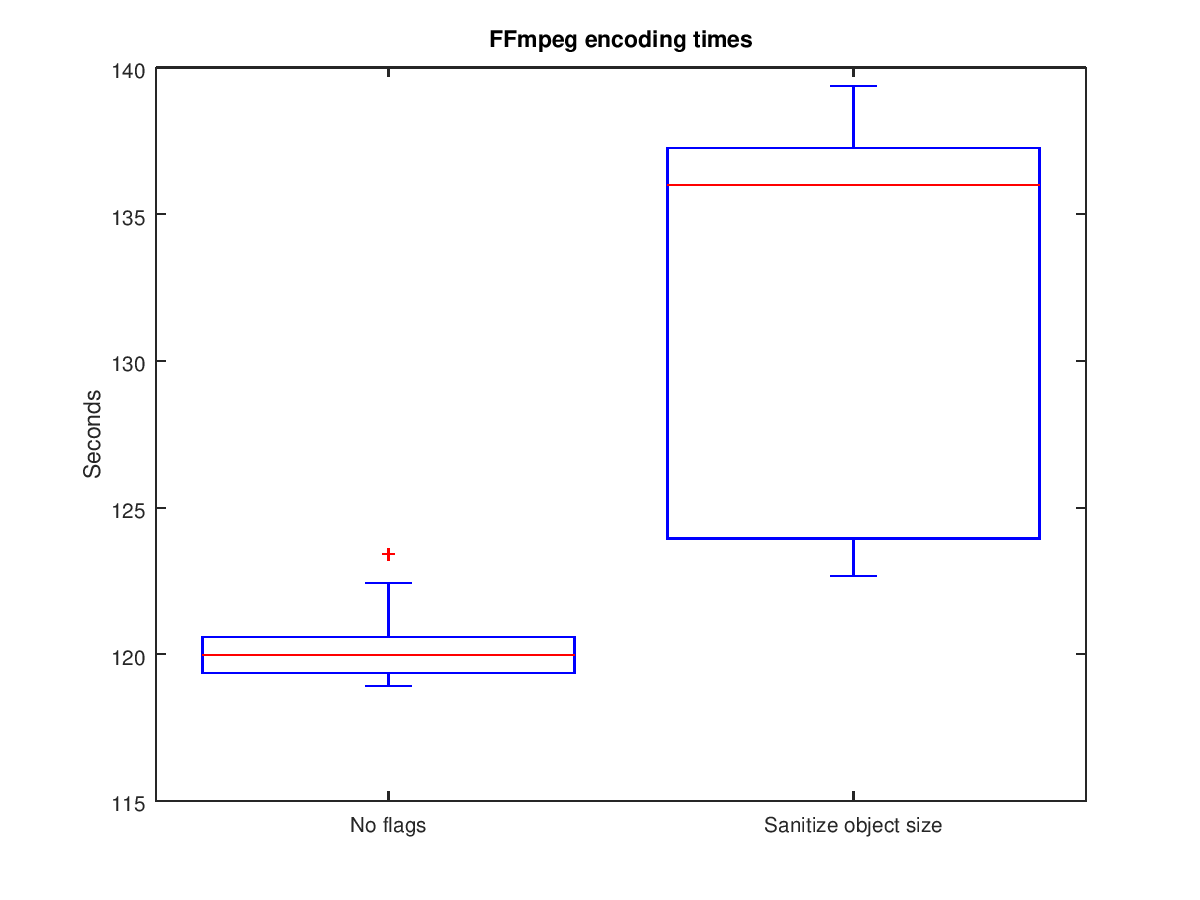
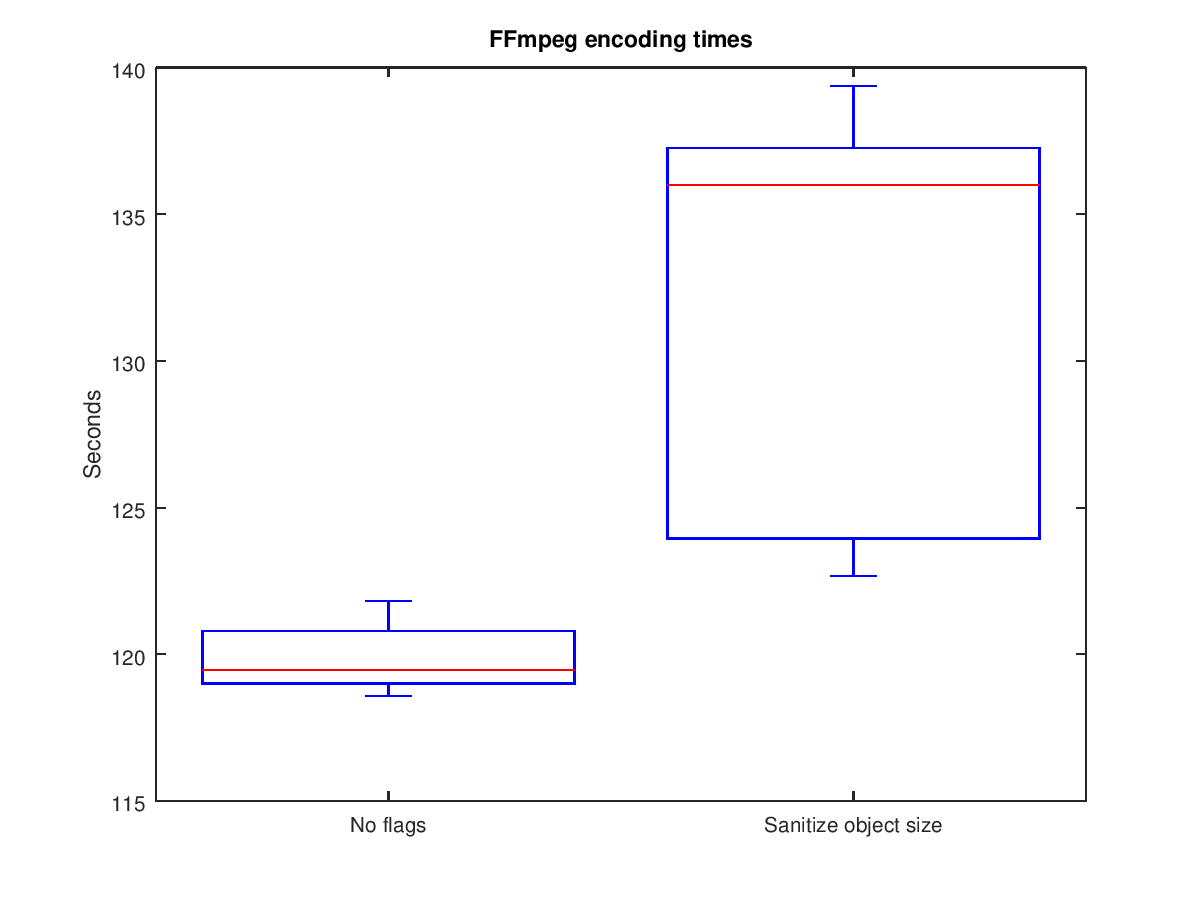
Update object-size post with cleaner data

Changed region(s): [[0.1542, 0.6533, 0.4933, 0.7778]]

diff --git a/_posts/2017-10-05-sanitize-object-size.md b/_posts/2017-10-05-sanitize-object-size.md
@@ -194,11 +194,11 @@ Following are the sizes of the file systems of the two builds:
 
 | Build         | Size (KB)       
 | ------------- |:-------------:|
-| No Flags      | 575,622       |
-| Sanitizer     | 576,319       |
+| No Flags      | 556,866       |
+| Sanitizer     | 557,376       |
 
-This shows that SSP code instrumentation adds an additional 697 KB (~0.7MB)
-of storage, which is an increase of ~0.12%. Your mileage may vary, as the increase
+This shows that SSP code instrumentation adds an additional 510 KB (~0.5MB)
+of storage, which is an increase of ~0.09%. Your mileage may vary, as the increase
 depends on the type of code being compiled.
 
 #### Performance cost
@@ -220,14 +220,14 @@ show the results of the experiment (raw data [here]({{ "/assets/data/hardening-f
 
 The results show that there is a clear increase in the amount of time needed
 to encode the video with the sanitizer enabled. On average the sanitizer resulted
-in an increase of 11.5 seconds, or ~9.5%.
+in an increase of 12 seconds, or ~10%.
 
 ### Conclusion
 
 The object-size sanitizer does provide some protection against out-of-bounds
 accesses if GCC can determine the size of objects at compile time. Using it
 does increase the size of executables modestly, but comes with a significant
-performance penalty (~9.5% in this case). The sanitizer would be valuable
+performance penalty (~10% in this case). The sanitizer would be valuable
 during development and QA, but may not be recommended for systems where
 performance targets may be missed. There are some projects where this
 sanitizer is enabled as the security trade-off is worth the performance hit
